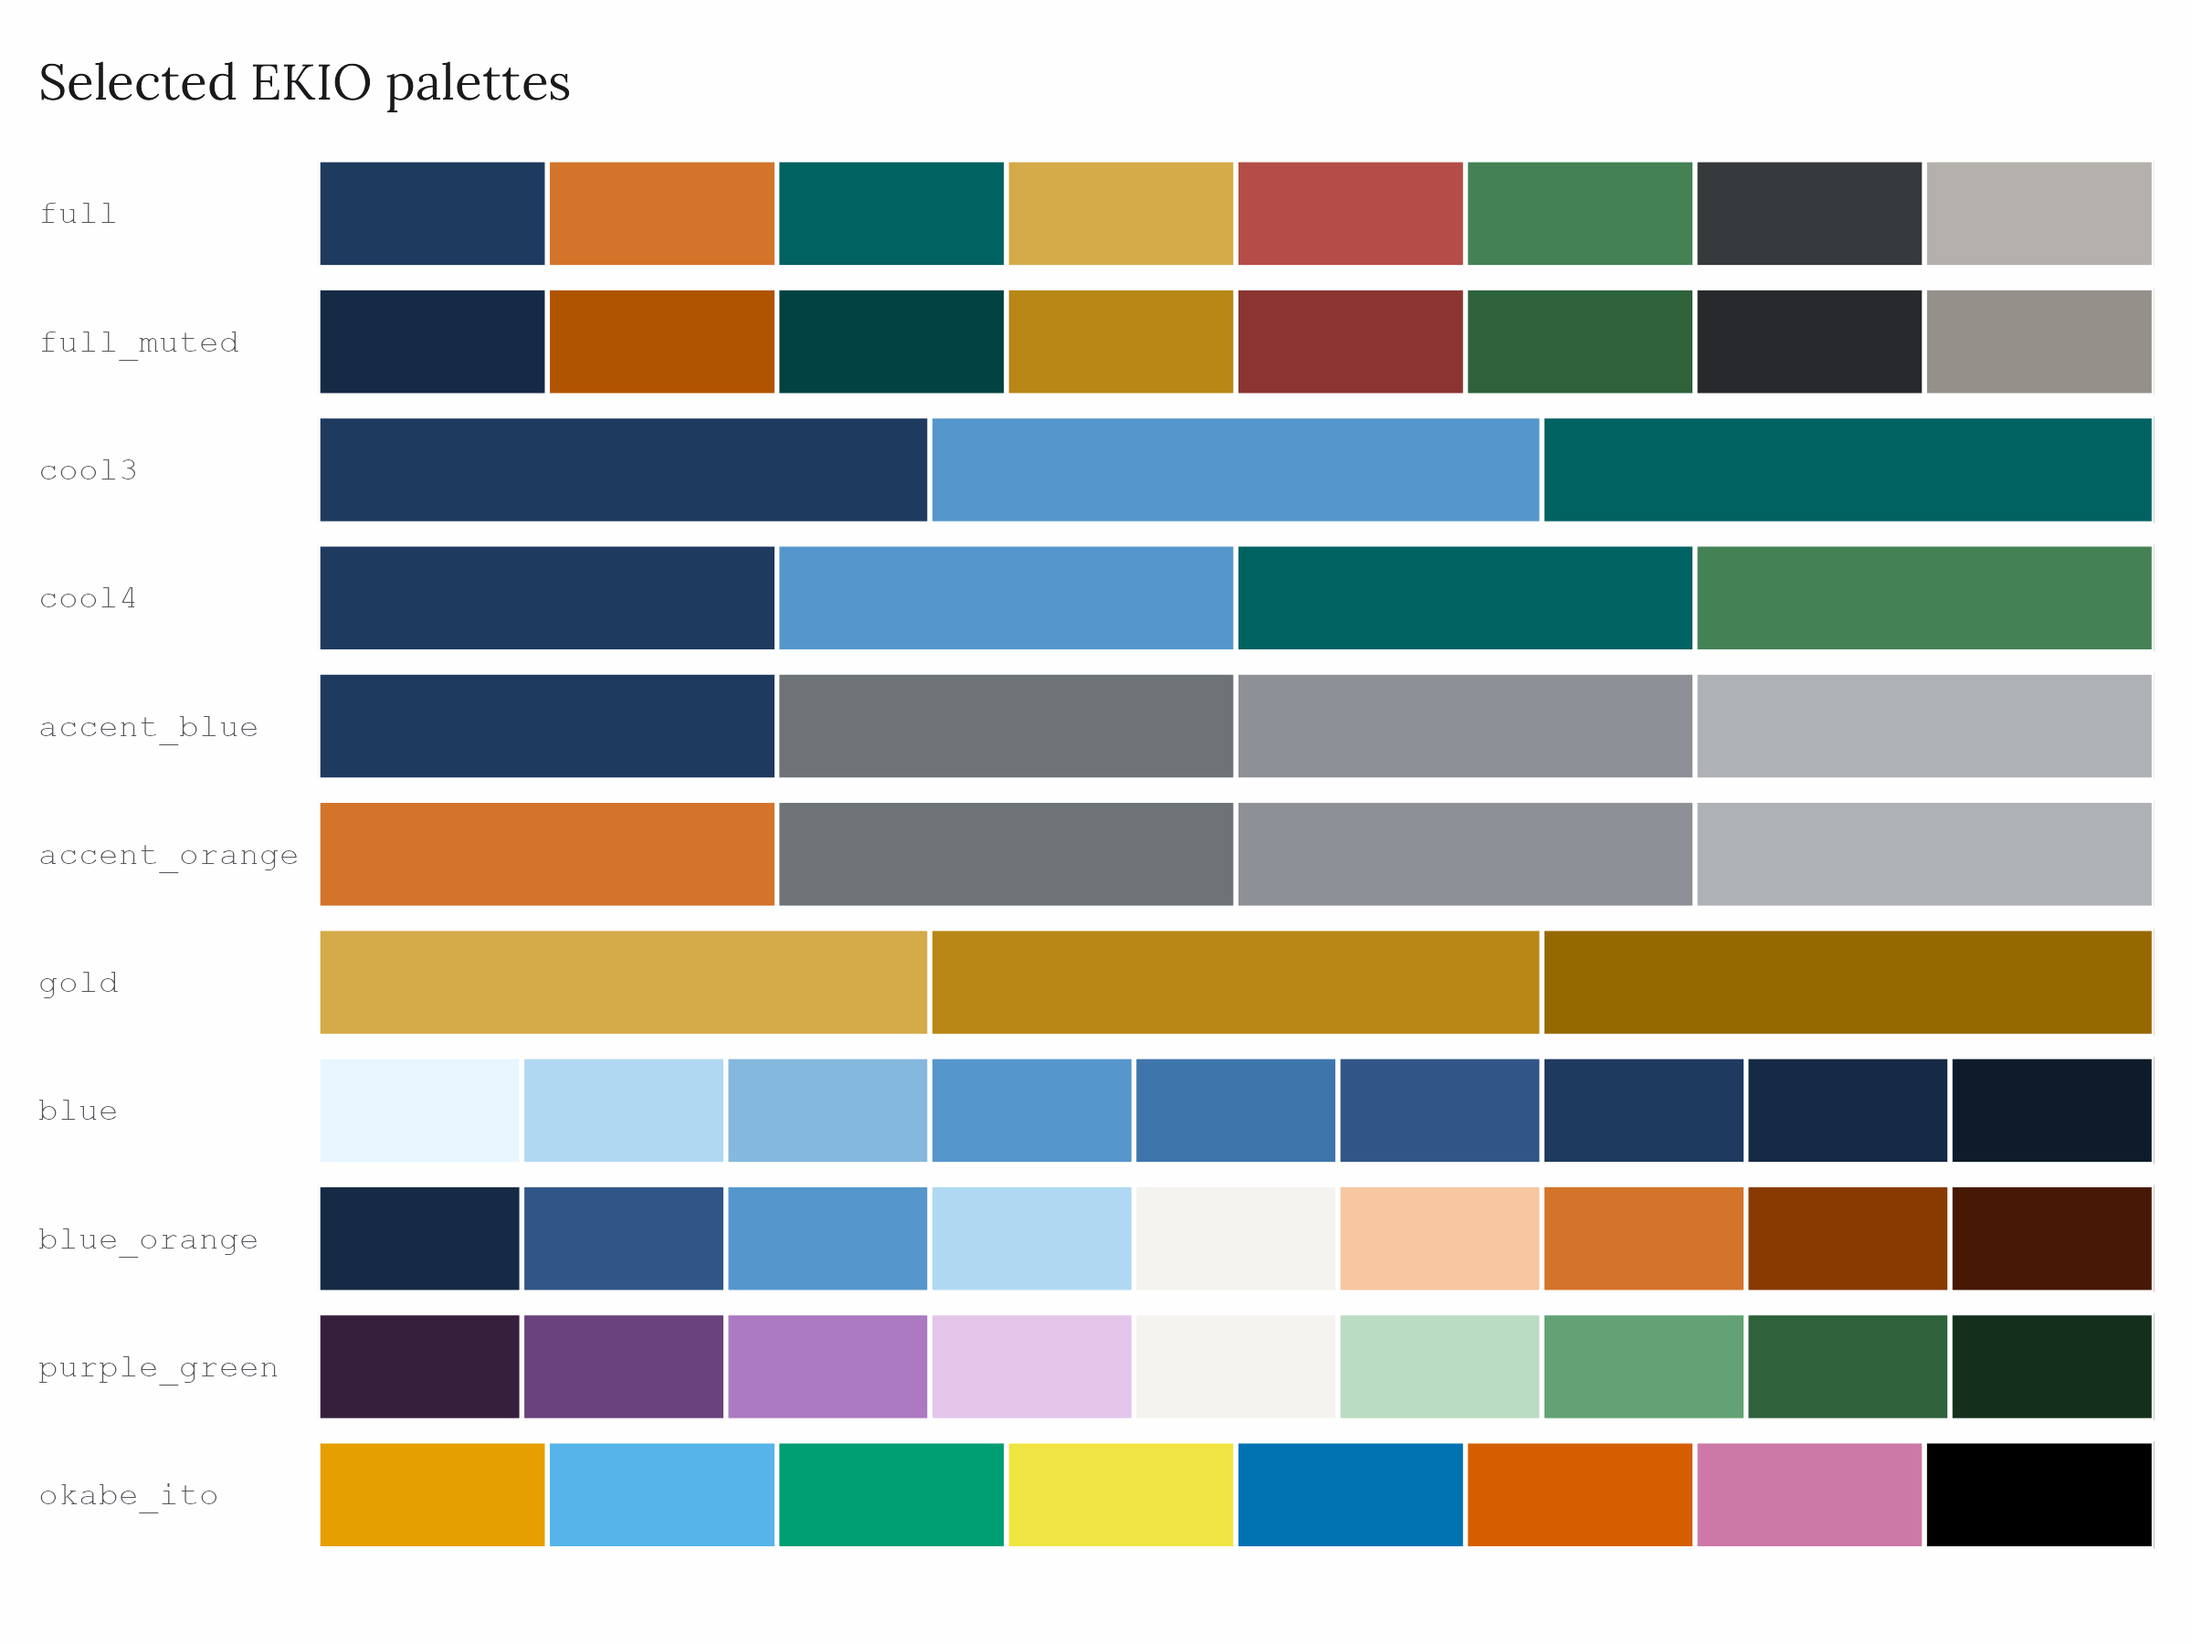
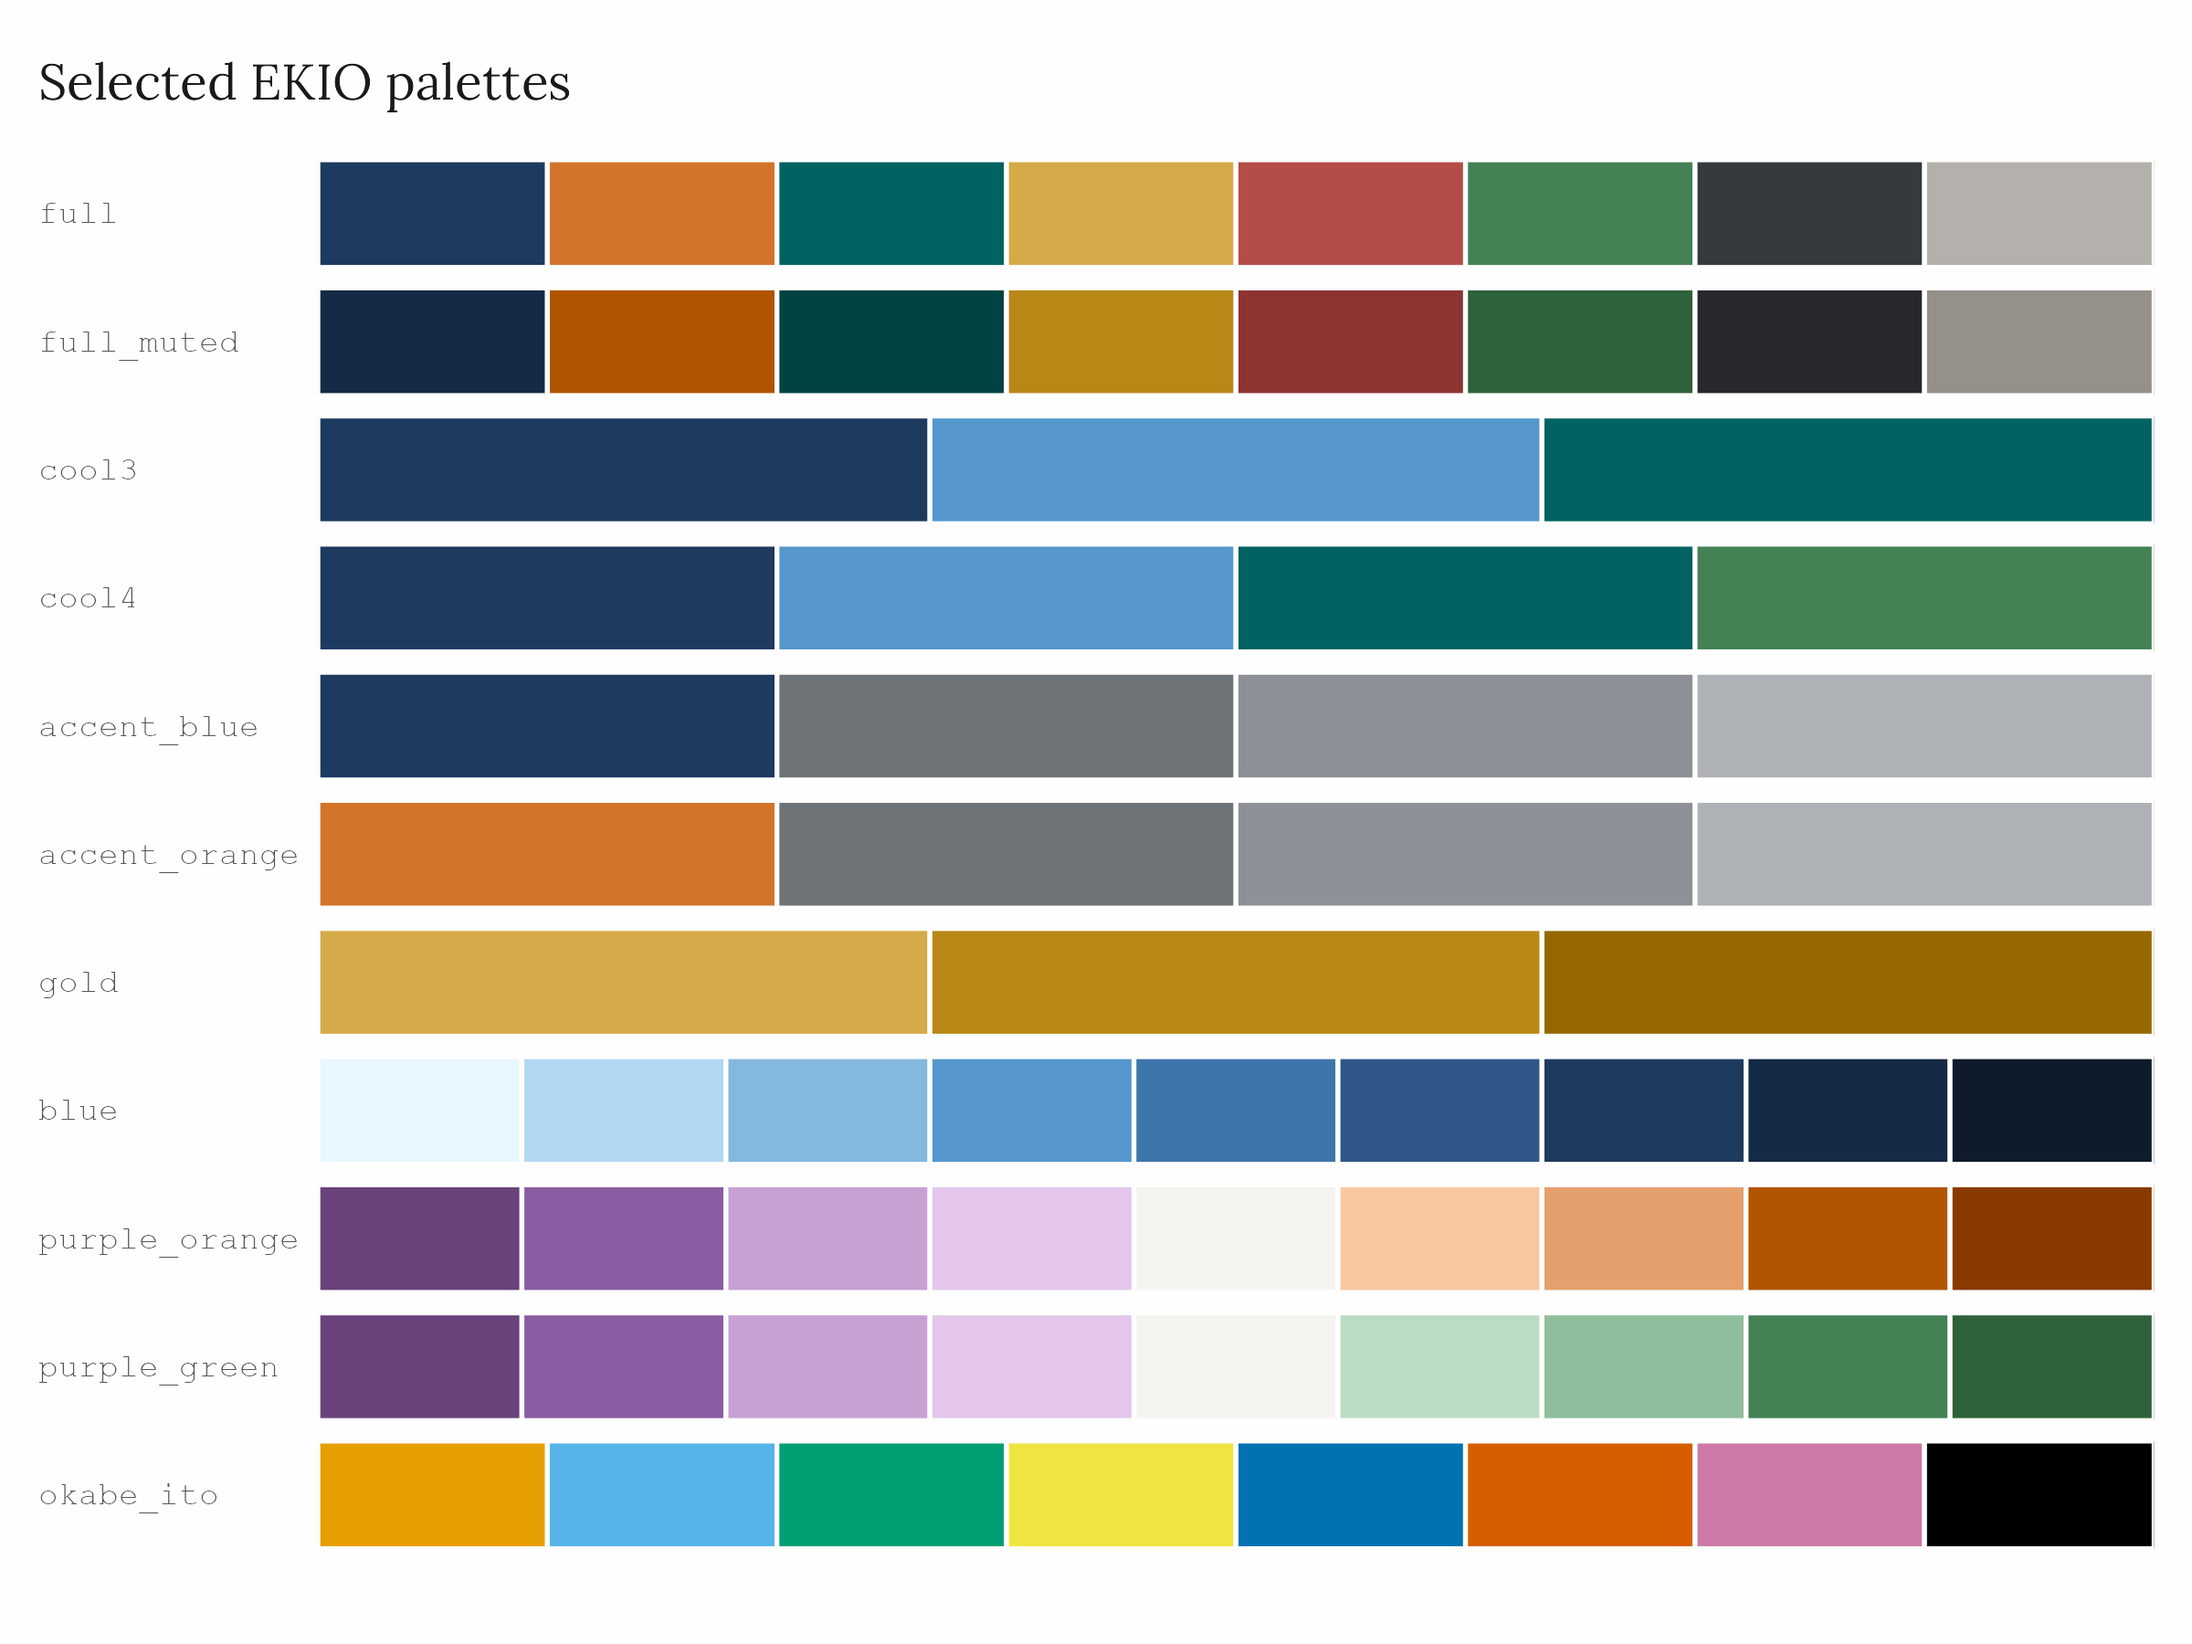
feat(palettes): lighten diverging palette endpoints

Changed region(s): [[0.125, 0.7156, 0.5312, 0.8711], [0.6875, 0.7156, 1.0, 0.8711]]

diff --git a/NEWS.md b/NEWS.md
@@ -1,5 +1,9 @@
 # ekioplot 1.1.2
 
+## Breaking changes
+
+* Diverging palettes now stop at the lighter shade 600 and use more gradual intermediate steps for better balance in filled graphics. `purple_orange` replaces `blue_orange`, while `blue_red`, `teal_orange`, and `purple_green` retain their names with the lighter construction.
+
 ## New features
 
 * Added the `purple` brand scale, a nine-step ramp on the same lightness spine

diff --git a/README.md b/README.md
@@ -108,7 +108,7 @@ scale_fill_ekio_d("full")
 
 # Continuous (sequential / diverging palettes)
 scale_color_ekio_c("blue")
-scale_fill_ekio_c("blue_orange")
+scale_fill_ekio_c("purple_orange")
 ```
 
 ## Recipe functions
